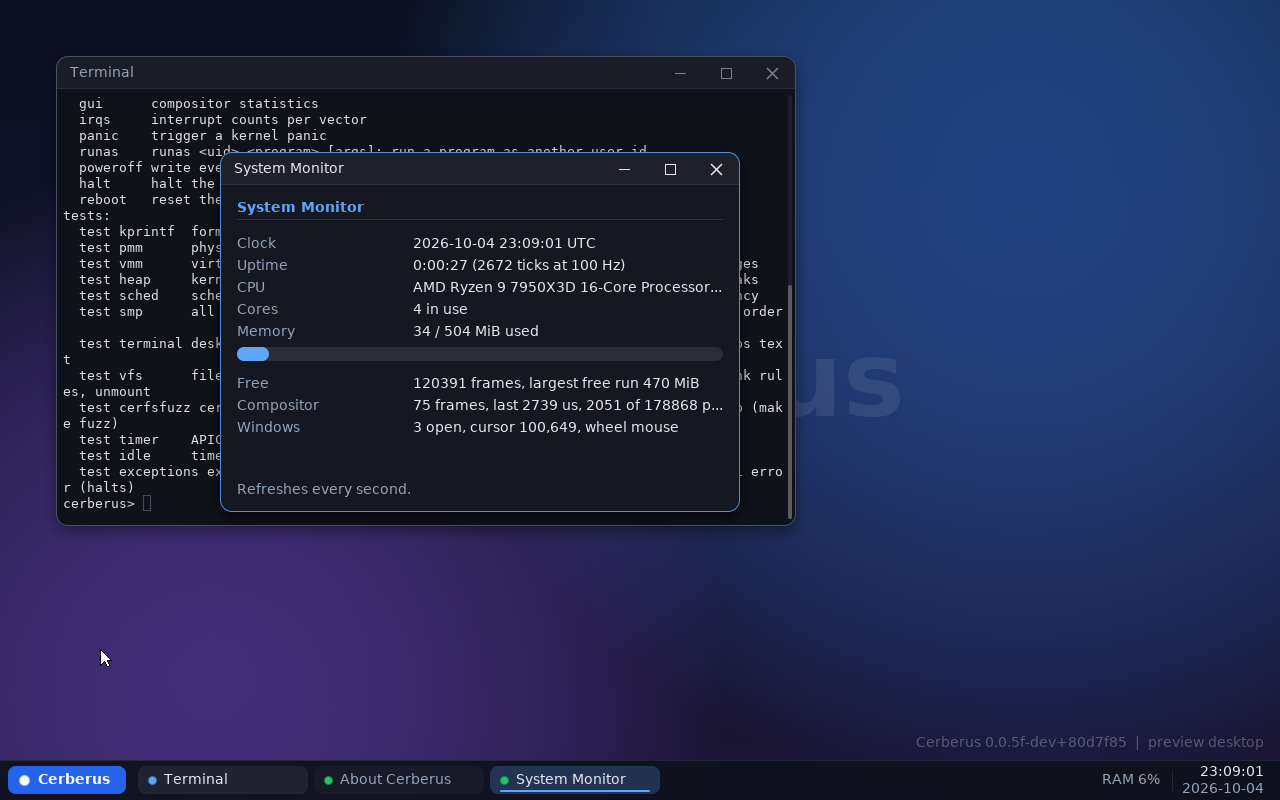
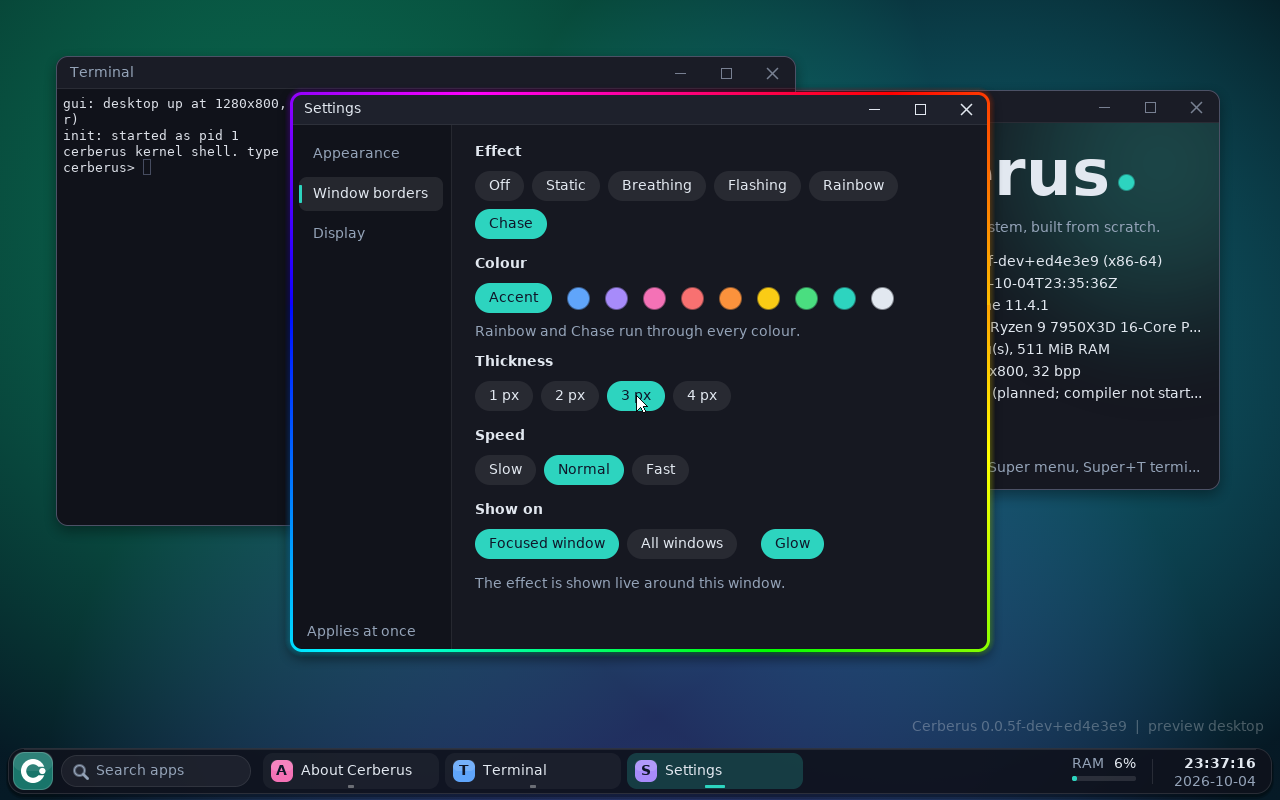
update

diff --git a/roadmap/index.html b/roadmap/index.html
@@ -127,6 +127,17 @@
     .phase .goal { margin-top: 18px; padding-top: 14px; border-top: 1px solid var(--border); font-size: 13.5px; color: var(--text-dim); }
     .phase .goal b { color: var(--text); font-weight: 600; }
 
+    .minor { margin-top: 44px; font-family: var(--font-mono); font-size: 12.5px; letter-spacing: 0.14em; text-transform: uppercase; color: var(--text-dim); }
+    .work { display: grid; grid-template-columns: 1fr 1fr; gap: 10px; margin-top: 16px; }
+    .work div { padding: 16px 20px; border-radius: 14px; border: 1px dashed var(--border); font-size: 14.5px; }
+    .work b { color: var(--text-bright); font-weight: 600; }
+    .finished { margin-top: 36px; border-top: 1px solid var(--border); }
+    .finished a { display: grid; grid-template-columns: 44px 1fr auto; gap: 16px; align-items: baseline; padding: 15px 8px; border-bottom: 1px solid var(--border); font-size: 14.5px; transition: background .15s; }
+    .finished a:hover { background: var(--surface-hover); }
+    .finished a > code { background: none; padding: 0; font-size: 13px; color: var(--green); }
+    .finished b { color: var(--text-bright); font-weight: 600; }
+    .finished em { font-style: normal; font-family: var(--font-mono); font-size: 11.5px; padding: 3px 10px; border-radius: 999px; border: 1px solid var(--border); color: var(--text-dim); }
+
     /* release history: one dropdown per version */
     .releases { margin-top: 36px; display: grid; gap: 10px; }
     details { border-radius: 14px; border: 1px solid var(--border); background: var(--surface); transition: border-color .2s, background .2s; }
@@ -165,7 +176,9 @@
       .nav .wrap { padding-left: 16px; }
       .head { padding-top: 56px; }
       section { padding-top: 76px; }
-      .phase ul { grid-template-columns: 1fr; }
+      .phase ul, .work { grid-template-columns: 1fr; }
+      .finished a { grid-template-columns: 30px 1fr; }
+      .finished em { display: none; }
       .phase .tag { margin-left: 0; }
       .track { gap: 3px; }
       summary { grid-template-columns: 1fr 18px; gap: 6px 12px; padding: 16px 18px; }
@@ -184,7 +197,9 @@
   <div class="wrap">
     <a class="wordmark" href="/" aria-label="Cerberus OS home">Cerberus<i></i></a>
     <nav class="nav-links">
-      <a href="#ahead">What's coming</a>
+      <a href="#now">Now</a>
+      <a href="#ahead">Coming</a>
+      <a href="#done">Done</a>
       <a href="#releases">Releases</a>
       <a href="/">Home</a>
     </nav>
@@ -199,23 +214,25 @@
       <h1>Where Cerberus is going, <span>and how it got here.</span></h1>
       <p class="lead">Cerberus is built in numbered phases. Each one ends in a tested release, and no phase starts until the one before it passes its acceptance tests.</p>
       <div class="jump">
+        <a class="btn" href="#now">In progress</a>
         <a class="btn" href="#ahead">What's coming</a>
+        <a class="btn" href="#done">Completed</a>
         <a class="btn" href="#releases">Release history</a>
       </div>
       <div class="track" aria-hidden="true">
-        <i class="done"></i><i class="done"></i><i class="done"></i><i class="done"></i><i class="done"></i><i class="done"></i><i class="done"></i><i class="done"></i><i class="done"></i><i class="done"></i><i class="done"></i><i class="next"></i><i></i><i></i><i></i><i></i><i></i><i></i><i></i><i></i>
+        <i class="done"></i><i class="done"></i><i class="done"></i><i class="done"></i><i class="done"></i><i class="done"></i><i class="done"></i><i class="done"></i><i class="done"></i><i class="done"></i><i class="done"></i><i class="done"></i><i class="next"></i><i></i><i></i><i></i><i></i><i></i><i></i><i></i>
       </div>
-      <div class="track-label"><span>11 of 20 phases done</span><span>v0.0.5f</span></div>
+      <div class="track-label"><span>phases 0 to 11 done</span><span>phase 12 in progress &middot; v0.0.5f</span></div>
     </div>
 
-    <section id="ahead">
-      <span class="eyebrow">What's coming</span>
-      <h2>The road from here.</h2>
-      <p class="sub">The highlights of every phase still ahead, in the order they will be built.</p>
+    <section id="now">
+      <span class="eyebrow">In progress</span>
+      <h2>What is being built right now.</h2>
+      <p class="sub">Phase 11 shipped in v0.0.5f. The current development builds are working towards phase 12.</p>
 
       <div class="ahead">
         <article class="phase next">
-          <header><span class="n">Phase 12</span><h3>Pane, the window server</h3><span class="tag">up next</span></header>
+          <header><span class="n">Phase 12</span><h3>Pane, the window server</h3><span class="tag">in progress</span></header>
           <p>The desktop moves out of the kernel and becomes its own protected program.</p>
           <ul>
             <li><b>Real window management:</b> move, resize, stack, focus, minimise, maximise and full screen.</li>
@@ -227,7 +244,23 @@
           </ul>
           <p class="goal"><b>Target:</b> a full 1920×1080 frame with 10 windows in under 8 ms, and no work at all when nothing changed.</p>
         </article>
+      </div>
 
+      <p class="minor">Also on the workbench</p>
+      <div class="work">
+        <div><b>Faster page faults.</b> A minor page fault takes 2.0 to 2.9 µs against a 2 µs budget. It is the one number over budget, and it gets profiled first.</div>
+        <div><b>Window animations.</b> Open and close animations, and frame pacing from a one-shot timer.</div>
+        <div><b>Finishing memory mapping.</b> Shared and demand-paged file mappings, plus signal masks.</div>
+        <div><b>Driver loose ends.</b> MSI-X so NVMe and virtio disks stop being polled, keyboard LEDs, and layouts other than US.</div>
+      </div>
+    </section>
+
+    <section id="ahead">
+      <span class="eyebrow">What's coming</span>
+      <h2>The road from here.</h2>
+      <p class="sub">The highlights of every phase after this one, in the order they will be built.</p>
+
+      <div class="ahead">
         <article class="phase">
           <header><span class="n">Phase 13</span><h3>Facet and the first real apps</h3><span class="tag">planned</span></header>
           <p>A widget toolkit, a proper desktop shell, and the applications that make it a system you can use.</p>
@@ -334,6 +367,26 @@
             <li><b>Spec compiling itself,</b> and an ARM64 port.</li>
           </ul>
         </article>
+      </div>
+    </section>
+
+    <section id="done">
+      <span class="eyebrow">Completed</span>
+      <h2>Twelve phases done.</h2>
+      <p class="sub">Every finished phase passed its acceptance tests before the next one started. Pick one to open the release that completed it.</p>
+      <div class="finished">
+        <a href="#v0.0.1"><code>0</code><span><b>Scaffolding.</b> The cross compiler, the bootloader, the build and the boot test harness.</span><em>0.0.1</em></a>
+        <a href="#v0.0.1"><code>1</code><span><b>Boot and output.</b> Serial, a framebuffer console and the boot banner.</span><em>0.0.1</em></a>
+        <a href="#v0.0.1"><code>2</code><span><b>CPU and interrupts.</b> Symbolised crash dumps, ACPI, APIC, HPET, a 100 Hz timer and the kernel shell.</span><em>0.0.1</em></a>
+        <a href="#v0.3.0"><code>3</code><span><b>Physical memory.</b> The frame allocator and its self-test.</span><em>0.3.0</em></a>
+        <a href="#v0.4.0"><code>4</code><span><b>Virtual memory.</b> Private address spaces, demand paging and copy-on-write.</span><em>0.4.0</em></a>
+        <a href="#v0.5.0"><code>5</code><span><b>Kernel heap.</b> A hardened allocator that detects corruption.</span><em>0.5.0</em></a>
+        <a href="#v0.6.0"><code>6</code><span><b>Threads and scheduling.</b> A four-level preemptive scheduler and the full set of locks.</span><em>0.6.0</em></a>
+        <a href="#v0.7.0"><code>7</code><span><b>User programs.</b> Ring 3, system calls, the ELF loader, <code>fork</code> and <code>exec</code>.</span><em>0.7.0</em></a>
+        <a href="#v0.0.5a"><code>8</code><span><b>Every core.</b> All processors scheduling, with work stealing and TLB shootdown.</span><em>0.0.5a</em></a>
+        <a href="#v0.0.5c"><code>9</code><span><b>Files.</b> The VFS, the page cache, cerfs and the first disk drivers.</span><em>0.0.5c</em></a>
+        <a href="#v0.0.5e"><code>10</code><span><b>Drivers.</b> The driver model, NVMe and virtio disks, input devices and power management.</span><em>0.0.5e</em></a>
+        <a href="#v0.0.5f"><code>11</code><span><b>Programs talking to each other.</b> Ports, shared memory, signals, threads, futexes and event queues.</span><em>0.0.5f</em></a>
       </div>
     </section>
 
@@ -565,7 +618,7 @@
       Performance: [
         'SATA commands are completed by an interrupt (MSI) where the controller offers it, so the processor is free while the disk works.'
       ] } },
-    { v: '0.0.5f', date: 'October 2026', title: 'Programs talking to each other', phase: 'Phase 11', security: true, groups: {
+    { v: '0.0.5f', date: 'October 2026', title: 'Programs talking to each other, and a new desktop', phase: 'Phase 11', security: true, groups: {
       Security: [
         'A named port has an owner and permission bits like a file; a program without permission cannot connect to it.',
         'The receiver of a connection learns the other side\'s process, user and group from the kernel, so it cannot be faked.',
@@ -581,6 +634,11 @@
         'Futexes: locks that enter the kernel only to wait, also between processes.',
         'Event queues: one wait over ports, timers and child exit. A waiting server uses no CPU and wakes about 50 microseconds after a message is sent.',
         '`mmap` of a file, `mprotect`, `kill`, `umask`, `sysinfo` and more: 74 system calls now.',
+        'Settings: nine accent colours, three wallpapers (Nebula, Aurora, Ember), square, soft or round window corners, a floating or docked taskbar, and a 12- or 24-hour clock.',
+        'Window-border effects: static, breathing, flashing, rainbow and chase, with a choice of colour, thickness, speed and glow.',
+        'Screen resolution can be changed in Settings, from 800x600 to 1920x1080, or with `resolution` in the shell.',
+        'A new launcher: a logo button, a search box on the taskbar, and a menu you can type in to filter apps, with Power off and Restart.',
+        'A new taskbar: a rounded bar floating clear of the screen edges, an icon for each open window, a memory meter and a bolder clock.',
         'The mouse cursor turns into a two-headed arrow over a window\'s edges, so resizing is discoverable.',
         'Test programs: `ipctest`, `threadtest`, `sigtest`, `eventtest` and `mmaptest`.'
       ],
@@ -634,7 +692,7 @@
   // a link such as /roadmap/#v0.0.5f opens that version
   function openHash() {
     var d = location.hash && document.getElementById(location.hash.slice(1));
-    if (d && d.tagName === 'DETAILS') { d.open = true; d.scrollIntoView(); }
+    if (d && d.tagName === 'DETAILS') { d.open = true; d.scrollIntoView(); sync(); }
   }
   window.addEventListener('hashchange', openHash);
   openHash();

diff --git a/index.html b/index.html
@@ -172,6 +172,7 @@
     .card .ico { display: grid; place-items: center; width: 38px; height: 38px; margin-bottom: 14px; border-radius: 11px; color: var(--accent); border: 1px solid rgba(56,182,255,0.3); background: rgba(56,182,255,0.08); box-shadow: 0 0 24px rgba(56,182,255,0.18) inset; }
     .card .ico svg { width: 18px; height: 18px; fill: none; stroke: currentColor; stroke-width: 1.8; stroke-linecap: round; stroke-linejoin: round; }
     .card .ico + h3 { margin-top: 0; font-size: 16.5px; }
+    .card code { font-family: var(--font-mono); font-size: 0.86em; padding: 1px 6px; border-radius: 5px; background: rgba(255,255,255,0.06); color: #c9d2e8; }
 
     /* security and privacy */
     .vow { margin-top: 44px; padding: 34px 36px; border-radius: 22px; border: 1px solid var(--border-bright); display: grid; grid-template-columns: auto 1fr; gap: 28px; align-items: center;
@@ -313,7 +314,7 @@
   <div class="wrap">
 
     <div class="hero">
-      <span class="pill"><b></b>v0.0.5f &middot; phase 11 of 20 &middot; early</span>
+      <span class="pill"><b></b>v0.0.5f &middot; phases 0&ndash;11 done &middot; phase 12 in progress</span>
       <h1>An operating system, <span>written from scratch.</span></h1>
       <p class="lead">Cerberus is a 64-bit OS with its own kernel, its own file system, its own drivers and its own desktop. Nothing here is Linux, BSD or Windows underneath.</p>
       <div class="cta">
@@ -323,7 +324,7 @@
 
       <!-- SCREENSHOT SLOT 1: img/hero.png (the main desktop shot) -->
       <figure class="shot hero-shot reveal">
-        <div class="tilt"><img src="img/hero.png" alt="The Cerberus desktop with a terminal and the system monitor open" width="1280" height="800" /></div>
+        <div class="tilt"><img src="img/hero.png" alt="The Cerberus desktop with the Settings window open and an animated rainbow border around it" width="1280" height="800" /></div>
       </figure>
 
       <div class="stats reveal">
@@ -368,7 +369,7 @@
         <article class="card slim reveal"><h3>Threads and IPC</h3><p>Ports, shared memory, signals, futexes, and event queues so servers sleep instead of polling.</p></article>
         <article class="card slim reveal"><h3>Files</h3><p>A VFS, a page cache, and cerfs: a journaled, checksummed file system that survives power cuts.</p></article>
         <article class="card slim reveal"><h3>Drivers</h3><p>AHCI, NVMe, virtio-blk, IDE, PCI with MSI, PS/2 input, framebuffer, ACPI power.</p></article>
-        <article class="card slim reveal"><h3>Desktop</h3><p>A compositor with anti-aliased text, a taskbar and launcher, a terminal, a system monitor.</p></article>
+        <article class="card slim reveal"><h3>Desktop</h3><p>A compositor with anti-aliased text, a floating taskbar with app search, a terminal, a system monitor and Settings.</p></article>
         <article class="card slim reveal"><h3>Hardening</h3><p>W^X everywhere, SMEP/SMAP/UMIP, stack protectors, and fuzzers on every parser.</p></article>
       </div>
     </section>
@@ -441,11 +442,12 @@
         <div>
           <span class="eyebrow">The desktop</span>
           <h2>The desktop, so far.</h2>
-          <p>Today the desktop is a preview that runs inside the kernel; phase 12 moves it into its own protected program.</p>
+          <p>A floating taskbar, a launcher with app search, and a Settings window that changes the look live. Today it is a preview that runs inside the kernel; phase 12 moves it into its own protected program.</p>
           <div class="keys">
             <div><span><kbd>Super</kbd></span>Open the launcher</div>
             <div><span><kbd>Super</kbd><kbd>T</kbd></span>Open a terminal</div>
             <div><span><kbd>Alt</kbd><kbd>Tab</kbd></span>Switch windows</div>
+            <div><span><kbd>Super</kbd><kbd>M</kbd></span>Maximise a window</div>
             <div><span><kbd>Alt</kbd><kbd>F4</kbd></span>Close a window</div>
           </div>
         </div>
@@ -454,24 +456,30 @@
           <pre aria-label="The Cerberus shell listing its built-in self-tests"><span id="typed"></span><span class="caret"></span></pre>
         </div>
       </div>
-      <div class="grid g2">
+      <div class="grid g4">
+        <article class="card slim reveal"><h3>Make it yours</h3><p>Nine accent colours, three wallpapers (Nebula, Aurora, Ember), and square, soft or round window corners.</p></article>
+        <article class="card slim reveal"><h3>RGB window borders</h3><p>Static, breathing, flashing, rainbow or chase, with your choice of colour, thickness, speed and glow.</p></article>
+        <article class="card slim reveal"><h3>Launcher with search</h3><p>Type to filter the app list and press Enter to open the first match. Power off and Restart live there too.</p></article>
+        <article class="card slim reveal"><h3>Any resolution</h3><p>Switch from 800x600 up to 1920x1080 in Settings, or with <code>resolution</code> in the shell.</p></article>
+      </div>
+      <div class="grid g2" style="margin-top:16px">
         <!-- SCREENSHOT SLOT 2: img/shot-1.png -->
-        <figure class="shot reveal"><img src="img/shot-1.png" alt="Cerberus desktop screenshot" width="1280" height="800" loading="lazy" /></figure>
+        <figure class="shot reveal"><img src="img/shot-1.png" alt="The Cerberus launcher menu with its search field and app list" width="1280" height="800" loading="lazy" /></figure>
         <!-- SCREENSHOT SLOT 3: img/shot-2.png -->
-        <figure class="shot reveal"><img src="img/shot-2.png" alt="Cerberus desktop screenshot" width="1280" height="800" loading="lazy" /></figure>
+        <figure class="shot reveal"><img src="img/shot-2.png" alt="The Cerberus terminal and System Monitor windows" width="1280" height="800" loading="lazy" /></figure>
       </div>
     </section>
 
     <section id="roadmap">
       <span class="eyebrow">Roadmap</span>
-      <h2>Built in numbered phases. Eleven of twenty are done.</h2>
+      <h2>Built in numbered phases. 0 to 11 are done.</h2>
       <p class="sub">Each phase ends in a tested release, and no phase starts until the one before it passes its acceptance tests.</p>
       <div class="track reveal" aria-hidden="true">
-        <i class="done"></i><i class="done"></i><i class="done"></i><i class="done"></i><i class="done"></i><i class="done"></i><i class="done"></i><i class="done"></i><i class="done"></i><i class="done"></i><i class="done"></i><i class="next"></i><i></i><i></i><i></i><i></i><i></i><i></i><i></i><i></i>
+        <i class="done"></i><i class="done"></i><i class="done"></i><i class="done"></i><i class="done"></i><i class="done"></i><i class="done"></i><i class="done"></i><i class="done"></i><i class="done"></i><i class="done"></i><i class="done"></i><i class="next"></i><i></i><i></i><i></i><i></i><i></i><i></i><i></i>
       </div>
-      <div class="track-label"><span>boot</span><span>phase 12 is next</span><span>real hardware</span></div>
+      <div class="track-label"><span>phase 0</span><span>phase 12 in progress</span><span>phase 19</span></div>
       <div class="phases">
-        <div class="phase up reveal"><code>12 &middot; next</code><b>Pane, the window server</b><span>The desktop leaves the kernel. Programs cannot read each other's windows or keystrokes.</span></div>
+        <div class="phase up reveal"><code>12 &middot; now</code><b>Pane, the window server</b><span>The desktop leaves the kernel. Programs cannot read each other's windows or keystrokes.</span></div>
         <div class="phase reveal"><code>13</code><b>Facet and the first apps</b><span>An app toolkit, then a file manager, text editor, settings, image viewer and calculator.</span></div>
         <div class="phase reveal"><code>14</code><b>Networking</b><span>Network drivers, an in-tree TCP/IP stack, DHCP, DNS, sockets.</span></div>
         <div class="phase reveal"><code>15</code><b>Users, TLS and sandboxing</b><span>Accounts, encrypted connections, per-application permissions, then a web browser of its own.</span></div>
@@ -518,7 +526,7 @@
 
     <div class="closing reveal">
       <span class="wordmark">Cerberus<i></i></span>
-      <h2>Phase 12 is next.</h2>
+      <h2>Phase 12 is under way.</h2>
       <p>Pane, the window server, moves the desktop out of the kernel and into its own protected program.</p>
       <div class="cta">
         <a class="btn primary" href="/roadmap/">Read the full roadmap</a>
